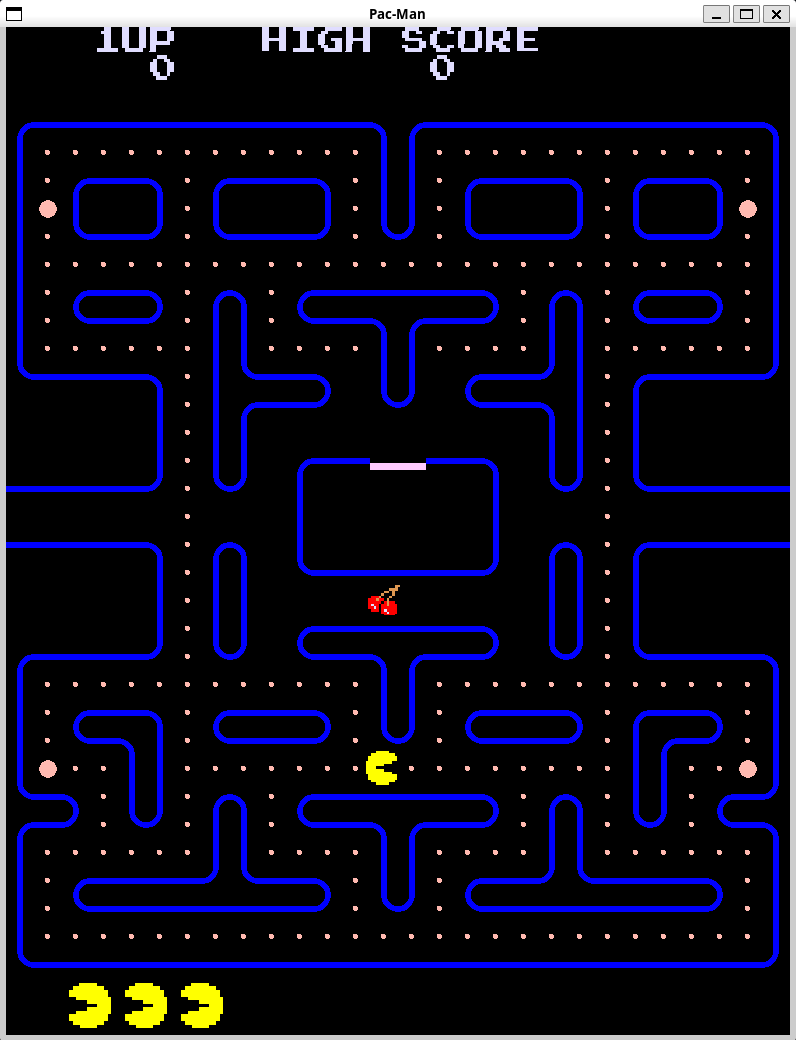
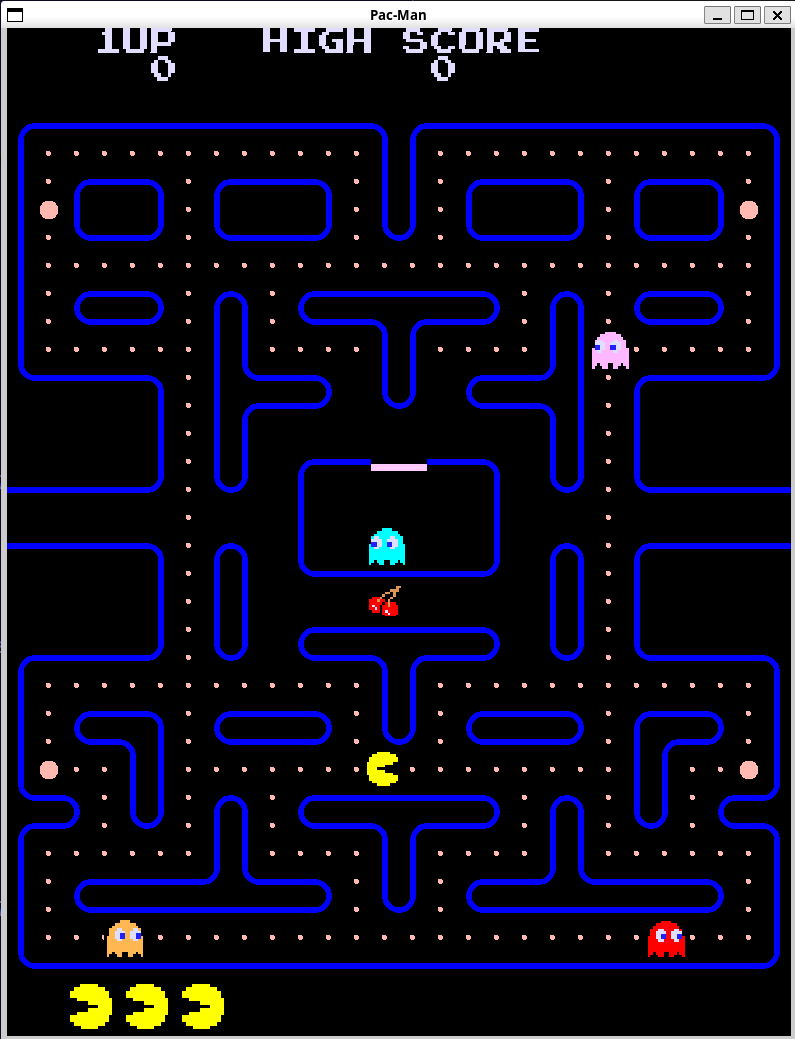
ora si muovono tutti (più o meno)

diff --git a/src/Ghost.cpp b/src/Ghost.cpp
@@ -7,6 +7,7 @@ Ghost::Ghost() : map(nullptr)
     speed = 2.5f;
     direction = NONE;
     lastDirection = NONE;
+    leftHouse = false;
 
     if (!tex.loadFromFile(ASSET))
     {
@@ -50,7 +51,7 @@ bool Ghost::isWall(int x, int y)
     if (!map)
         return false;
 
-    return (*map)[x][y] == LINE_H || (*map)[x][y] == LINE_V || (*map)[x][y] == CORNER_0 || (*map)[x][y] == CORNER_90 || (*map)[x][y] == CORNER_180 || (*map)[x][y] == CORNER_270 || (*map)[x][y] == BLINKY || (*map)[x][y] == PINKY || (*map)[x][y] == INKY || (*map)[x][y] == CLYDE;
+    return (*map)[x][y] == LINE_H || (*map)[x][y] == LINE_V || (*map)[x][y] == CORNER_0 || (*map)[x][y] == CORNER_90 || (*map)[x][y] == CORNER_180 || (*map)[x][y] == CORNER_270;
 }
 
 void Ghost::chooseDirection()
@@ -89,7 +90,6 @@ void Ghost::chooseDirection()
 
 void Ghost::move(float elapsed)
 {
-    // Prova a continuare nella direzione corrente prima di cambiare
     sf::Vector2i nextTile = position;
 
     switch (direction)
@@ -110,11 +110,29 @@ void Ghost::move(float elapsed)
         break;
     }
 
-    // Se la prossima tile è valida, continua
+    bool alignedToCell = std::abs(fPosition.x) < 0.01f && std::abs(fPosition.y) < 0.01f;
+
+    if (alignedToCell)
+    {
+        int available = 0;
+        if (!isWall(position.x - 1, position.y))
+            available++;
+        if (!isWall(position.x + 1, position.y))
+            available++;
+        if (!isWall(position.x, position.y - 1))
+            available++;
+        if (!isWall(position.x, position.y + 1))
+            available++;
+
+        if (available >= 2)
+        {
+            chooseDirection();
+        }
+    }
+
     if (!isWall(nextTile.x, nextTile.y))
     {
         sf::Vector2f movement(0, 0);
-
         switch (direction)
         {
         case UP:
@@ -132,16 +150,13 @@ void Ghost::move(float elapsed)
         default:
             break;
         }
-
         fPosition += movement;
     }
     else
     {
-        // Se c'è un muro, scegli nuova direzione
         chooseDirection();
     }
 
-    // Aggiorna la posizione intera quando supera 1.0
     if (std::abs(fPosition.x) >= 1.0f)
     {
         position.x += static_cast<int>(fPosition.x);

diff --git a/src/main.cpp b/src/main.cpp
@@ -140,7 +140,7 @@ void State::bounds()
     else if (pinky.position.y > MAP_WIDTH)
     {
         pinky.position.y = 0;
-    }   
+    }
 
     if (inky.position.x < 0)
     {
@@ -179,24 +179,10 @@ void State::bounds()
 
 void State::ghost_collisions(float elapsed)
 {
-    if (blinky.fPosition.x == 0.f && blinky.fPosition.y == 0.f)
-        blinky.chooseDirection();
-    if (!blinky.isWall(blinky.position.x, blinky.position.y))
-        blinky.move(elapsed);
-    if (pinky.fPosition.x == 0.f && pinky.fPosition.y == 0.f)
-        pinky.chooseDirection();
-    if (!pinky.isWall(pinky.position.x, pinky.position.y))
-        pinky.move(elapsed);
-
-    if (inky.fPosition.x == 0.f && inky.fPosition.y == 0.f)
-        inky.chooseDirection();
-    if (!inky.isWall(inky.position.x, inky.position.y))
-        inky.move(elapsed);
-
-    if (clyde.fPosition.x == 0.f && clyde.fPosition.y == 0.f)
-        clyde.chooseDirection();       
-    if (!clyde.isWall(clyde.position.x, clyde.position.y))
-        clyde.move(elapsed);
+    blinky.move(elapsed);
+    pinky.move(elapsed);
+    inky.move(elapsed);
+    clyde.move(elapsed);
 }
 
 void State::collisions(float elapsed)
@@ -416,8 +402,8 @@ void State::doGraphics()
     inky.draw(window);
     clyde.draw(window);
     pacman.draw(window);
-    
-    sf::Color gridColor = sf::Color(255, 255, 255, 100); // Colore grigio semi-trasparente
+
+    /*sf::Color gridColor = sf::Color(255, 255, 255, 100); // Colore grigio semi-trasparente
     float thickness = 1.0f;
 
     for (int x = 0; x <= MAP_WIDTH; x++)
@@ -434,8 +420,7 @@ void State::doGraphics()
         line.setPosition({0, (float)y * TILE_SIZE});
         line.setFillColor(gridColor);
         window.draw(line);
-    }
-    
+    }*/
 }
 
 void State::doUI()

diff --git a/includes/Ghost.hpp b/includes/Ghost.hpp
@@ -11,6 +11,7 @@ struct Ghost
     sf::Texture tex;
     sf::Vector2i position;
     sf::Vector2f fPosition;
+    bool leftHouse;
 
     enum Direction
     {
